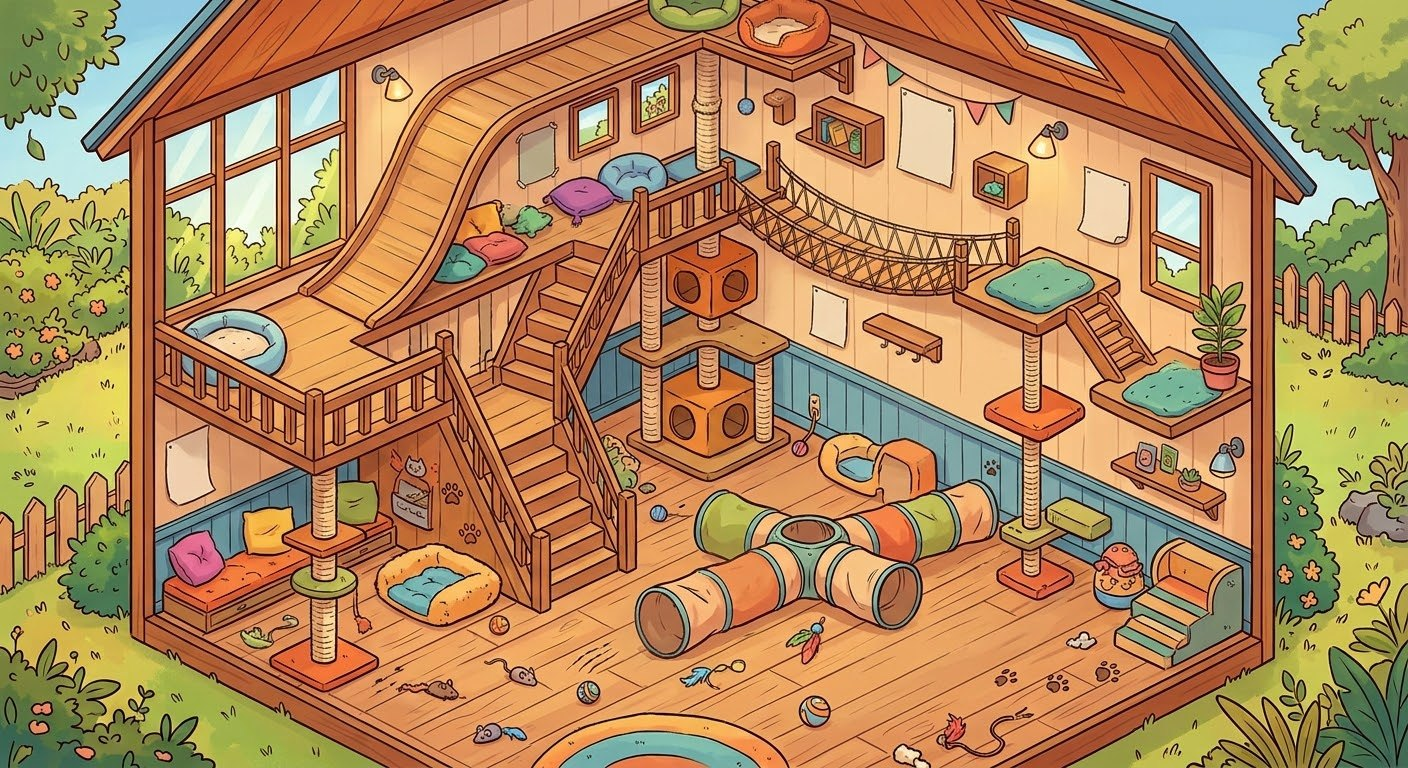
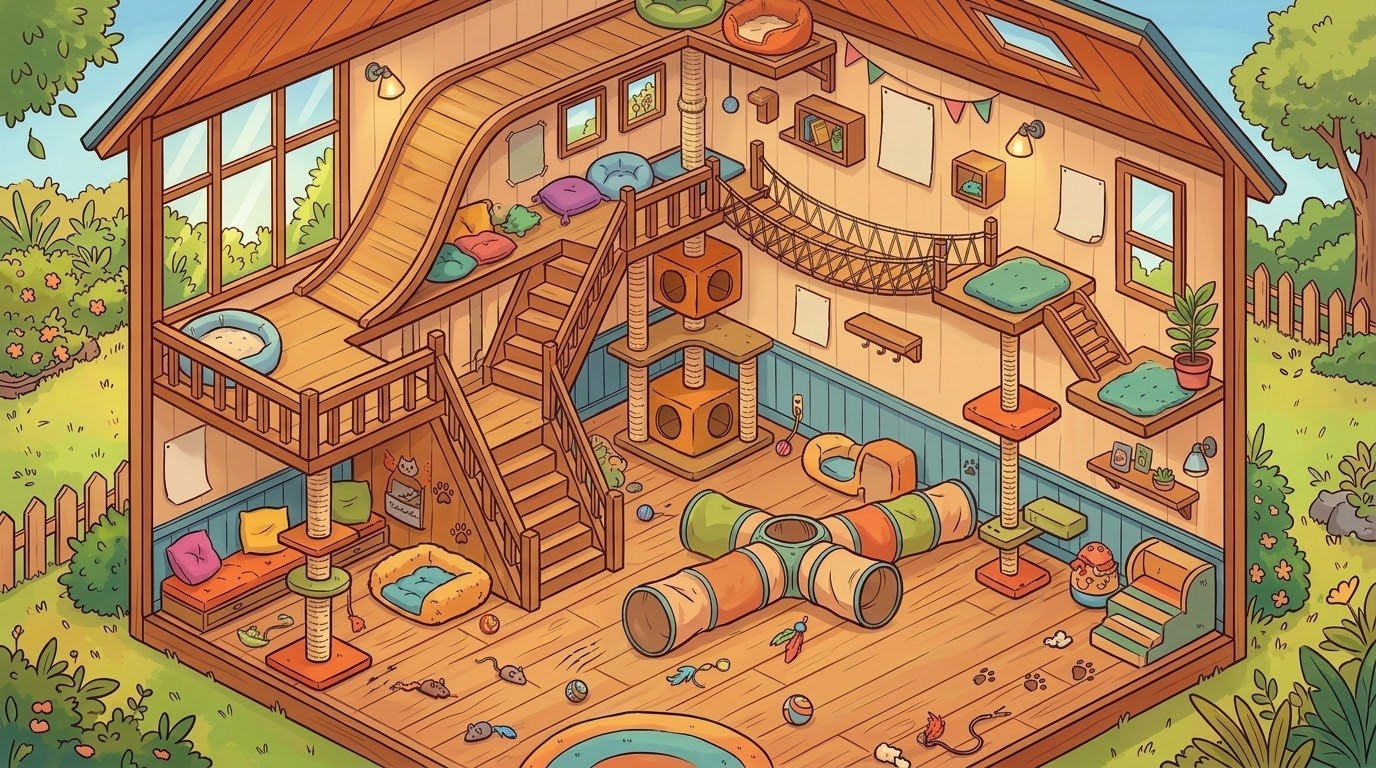
v3: 新しい猫ハウス画像に差し替え、釣り場・猫の歩行・釣り人位置を再配置

diff --git a/game/js/game.js b/game/js/game.js
@@ -94,7 +94,7 @@
 
   /* ---------- canvas & layout (fixed: the whole cat house is always visible, no camera) ---------- */
   var cv, cx, LW = 450, LH = 700, K = 1, DPR = 1;
-  var IW = 1408, IHH = 768;
+  var IW = 1376, IHH = 768;
   var VIEW = { x: 0, y: 0, s: 1, w: 450, h: 245 }, ZOOM = null; // ZOOM = fixed close-up window (null if no room)
   function resize() {
     var wrap = $('stage-wrap'); if (!wrap || !cv) return;
@@ -120,7 +120,7 @@
 
   /* ---------- game state ---------- */
   var G = null;
-  var ANG = { x: 1352, y: 742 }; // angler feet (garden, right edge of the picture)
+  var ANG = { x: 1322, y: 742 }; // angler feet (garden, right edge of the picture)
   var FALLBACK = { id: 'floor', name: 'ふつうの床', cats: ['chatora', 'kijitora', 'kuro'] };
   function unlockedSpots(n) { return SPOTS.filter(function (s) { return s.stage <= n; }); }
   function nearestSpot(x, y, onlyUnlocked) {
@@ -155,12 +155,12 @@
     var pool = B.filter(function (b) { return b.r <= 2; }), out = [];
     for (var i = 0; i < 3; i++) {
       var b = pool[Math.floor(Math.random() * pool.length)];
-      out.push({ id: b.id, x: rnd(380, 1150), y: rnd(600, 700), tx: rnd(380, 1150), wait: rnd(0, 3), f: 0 });
+      out.push({ id: b.id, x: rnd(380, 1080), y: rnd(600, 700), tx: rnd(380, 1080), wait: rnd(0, 3), f: 0 });
     }
     return out;
   }
   function makeSleepers() {
-    return [{ k: 'sleep_a', x: 240, y: 330 }, { k: 'sleep_c', x: 1168, y: 452 }, { k: 'sleep_b', x: 440, y: 584 }];
+    return [{ k: 'sleep_a', x: 236, y: 352 }, { k: 'sleep_c', x: 1140, y: 386 }, { k: 'sleep_b', x: 430, y: 590 }];
   }
 
   /* ---------- HUD / controls ---------- */
@@ -214,7 +214,7 @@
     });
   }
   function setAim(x, y) {
-    G.aim.x = clamp(x, 60, 1260); G.aim.y = clamp(y, 40, 735);
+    G.aim.x = clamp(x, 60, 1230); G.aim.y = clamp(y, 40, 735);
     var a = areaAt(G.aim.x, G.aim.y);
     if (a && a.stage <= G.stage) { G.aim.x = lerp(G.aim.x, a.x, 0.6); G.aim.y = lerp(G.aim.y, a.y, 0.6); }
     SND.play('tap'); updateHud();
@@ -260,7 +260,7 @@
       G.casts--; SV.stat('casts');
       // short (left half of gauge) = lands nearer the angler (right), long = farther left
       var miss = (1 - G.acc) * 150, dir = G.power < 0.5 ? 1 : -1;
-      var lx = clamp(G.aim.x + dir * miss + rnd(-12, 12), 60, 1260), ly = clamp(G.aim.y + rnd(-10, 10) * (1 - G.acc), 40, 735);
+      var lx = clamp(G.aim.x + dir * miss + rnd(-12, 12), 60, 1230), ly = clamp(G.aim.y + rnd(-10, 10) * (1 - G.acc), 40, 735);
       G.bob = { x: lx, y: ly, dip: 0, twitch: 0, fx: ANG.x, fy: ANG.y };
       var a = nearestSpot(lx, ly, true);
       G.area = a.d <= 170 ? a.spot : null;
@@ -367,12 +367,12 @@
       // ambient cats keep away from the bait so it is clear which cat is biting
       if (G.bob && Math.abs(a.x - G.bob.x) < 230 && Math.abs(a.y - G.bob.y) < 130) {
         var away = a.x >= G.bob.x ? 1 : -1, nx = G.bob.x + away * 320;
-        if (nx < 380 || nx > 1150) nx = G.bob.x - away * 320;
-        a.tx = clamp(nx, 380, 1150); a.wait = 0;
+        if (nx < 380 || nx > 1080) nx = G.bob.x - away * 320;
+        a.tx = clamp(nx, 380, 1080); a.wait = 0;
       }
       if (a.wait > 0) { a.wait -= dt; return; }
       var d = a.tx - a.x; a.f += dt;
-      if (Math.abs(d) < 4) { a.wait = rnd(1.5, 5); a.tx = rnd(380, 1150); return; }
+      if (Math.abs(d) < 4) { a.wait = rnd(1.5, 5); a.tx = rnd(380, 1080); return; }
       a.x += Math.sign(d) * 45 * dt;
     });
     G.texts.forEach(function (t) { t.life -= dt; t.dy -= 18 * dt; });
@@ -389,7 +389,7 @@
         SND.play('land');
         var b = pickCat(), side = Math.random() < 0.5 ? -1 : 1;
         var aid = G.area ? G.area.id : 'floor';
-        var range = aid === 'attic' ? 110 : aid === 'tower' ? 170 : 230;
+        var range = aid === 'attic' ? 70 : aid === 'loft' || aid === 'bridge' ? 110 : aid === 'tower' ? 150 : 220;
         var ap = rnd(2.2, 4.8) * (G.acc > 0.9 ? 0.6 : G.acc > 0.65 ? 0.8 : 1) * (G.area ? 1 : 1.3);
         G.cat = { b: b, side: side, x: G.bob.x + side * range, y: G.bob.y, tx: G.bob.x + side * 30, delay: rnd(0.6, 1.6) * (G.acc > 0.9 ? 0.6 : 1), speed: range / ap, f: 0, mode: 'walk', fakes: Math.floor(rnd(0, 3.99)), nt: 0 };
         if (!G.area) addText('ふつうの床…', { x: G.bob.x, y: G.bob.y - 60 }, '#e8d6bb', 15);

diff --git a/game/js/data.js b/game/js/data.js
@@ -2,7 +2,7 @@
 (function () {
   'use strict';
   // Publish datetime (epoch ms). Stamped by tools/stamp.py at publish time.
-  var BUILD_TIME = 1791133398365;
+  var BUILD_TIME = 1791531243285;
 
   var RARITY_W = { 1: 100, 2: 42, 3: 16, 4: 5, 5: 1.2 };
   // like: bait ids this cat loves (x3.2). power: pull strength. win: bite window (s). kg: [min,max]
@@ -31,15 +31,15 @@
     { id: 'yaki', name: '焼き魚', price: 150, pack: 5, boost: 1.2, desc: 'レアな猫が集まる高級エサ' },
   ];
 
-  // x, y = bait position on the cat-house image (1408x768). floor: 1 = cats walk on this level.
+  // x, y = bait position on the cat-house image (1376x768). floor: 1 = cats walk on this level.
   var SPOTS = [
-    { id: 'cushion', name: '1F ひだまりクッション', x: 470, y: 630, stage: 1, cats: ['chatora', 'kijitora', 'kuro', 'shiro', 'cream'] },
-    { id: 'tunnel', name: '1F トンネル前', x: 800, y: 655, stage: 1, cats: ['kuro', 'kijitora', 'sabatora', 'hachiware', 'sabi'] },
-    { id: 'tower', name: '1F キャットタワー下', x: 690, y: 470, stage: 2, cats: ['chatora', 'hachiware', 'mike', 'siamese', 'sabatora'] },
-    { id: 'step', name: '1F 右のステップ', x: 1120, y: 620, stage: 3, cats: ['sabatora', 'shiro', 'cream', 'mike', 'sabi'] },
-    { id: 'loft', name: '2F ロフト', x: 390, y: 318, stage: 4, cats: ['siamese', 'mike', 'oshare', 'cream', 'shiro'] },
-    { id: 'bridge', name: '2F つり橋', x: 880, y: 262, stage: 5, cats: ['hachiware', 'sabi', 'oshare', 'maneki', 'mike'] },
-    { id: 'attic', name: '屋根裏ベッド', x: 780, y: 60, stage: 6, cats: ['maneki', 'oshare', 'siamese', 'kin'] },
+    { id: 'cushion', name: '1F ひだまりクッション', x: 455, y: 650, stage: 1, cats: ['chatora', 'kijitora', 'kuro', 'shiro', 'cream'] },
+    { id: 'tunnel', name: '1F トンネル前', x: 790, y: 665, stage: 1, cats: ['kuro', 'kijitora', 'sabatora', 'hachiware', 'sabi'] },
+    { id: 'tower', name: '1F キャットタワー下', x: 735, y: 462, stage: 2, cats: ['chatora', 'hachiware', 'mike', 'siamese', 'sabatora'] },
+    { id: 'step', name: '1F 右のステップ', x: 1075, y: 636, stage: 3, cats: ['sabatora', 'shiro', 'cream', 'mike', 'sabi'] },
+    { id: 'loft', name: '2F ロフト', x: 320, y: 372, stage: 4, cats: ['siamese', 'mike', 'oshare', 'cream', 'shiro'] },
+    { id: 'bridge', name: '2F つり橋', x: 840, y: 212, stage: 5, cats: ['hachiware', 'sabi', 'oshare', 'maneki', 'mike'] },
+    { id: 'attic', name: '屋根裏ベッド', x: 768, y: 50, stage: 6, cats: ['maneki', 'oshare', 'siamese', 'kin'] },
   ];
 
   var RODS = [

diff --git a/game/index.html b/game/index.html
@@ -5,7 +5,7 @@
 <!--nk-autoupdate--><script>
 /* 自動更新: 新しい版が公開されたら、安全なとき（タイトル画面など・試合中でない）だけ自動で読み込み直す。記録(localStorage)には触れない。 */
 (function () {
-  var PAGE_LABEL = '2026-10-05 02:03:18';
+  var PAGE_LABEL = '2026-10-09 16:34:03';
   var URL = '/nekotsuri/version.json', KEY = 'nkReloadFor:nekotsuri', EVERY = 60;
   function safe() { try { return !!(!document.getElementById('scr-play').classList.contains('active') && !document.querySelector('.overlay.show')); } catch (e) { return false; } }
   var busy = false;
@@ -28,12 +28,12 @@
 })();
 </script><!--/nk-autoupdate-->
 <meta name="viewport" content="width=device-width, initial-scale=1, viewport-fit=cover, user-scalable=no" />
-<meta name="nk-v" content="20261005020318" />
+<meta name="nk-v" content="20261009163403" />
 <title>猫ハウスつり（β版）</title>
 <meta name="description" content="猫ハウスで猫を釣るブラウザゲーム（β版）。エサを選んでキャスト、ウキが沈んだら合わせて、テンションに気をつけながらリールを巻こう。" />
 <meta name="theme-color" content="#3b2414" />
 <link rel="apple-touch-icon" href="/apple-touch-icon.png" />
-<link rel="stylesheet" href="css/style.css?v=20261005020318" />
+<link rel="stylesheet" href="css/style.css?v=20261009163403" />
 </head>
 <body>
 <div id="app">
@@ -171,10 +171,10 @@
 
   <div id="medal-pop" class="medal-pop"></div>
 </div>
-<script src="js/data.js?v=20261005020318"></script>
-<script src="js/save.js?v=20261005020318"></script>
-<script src="js/meta.js?v=20261005020318"></script>
-<script src="js/sound.js?v=20261005020318"></script>
-<script src="js/game.js?v=20261005020318"></script>
+<script src="js/data.js?v=20261009163403"></script>
+<script src="js/save.js?v=20261009163403"></script>
+<script src="js/meta.js?v=20261009163403"></script>
+<script src="js/sound.js?v=20261009163403"></script>
+<script src="js/game.js?v=20261009163403"></script>
 </body>
 </html>

diff --git a/game/css/style.css b/game/css/style.css
@@ -39,7 +39,7 @@ button { font-family: inherit; }
 @keyframes betaPulse { 50% { box-shadow: 0 0 22px rgba(255,90,40,1); } }
 .beta-line { margin: 0; width: 100%; padding: 6px 10px; border-radius: 10px; border: 2px solid #ff8a00; background: rgba(255,90,40,.18); font-size: .82rem; text-align: center; }
 .beta-line b { color: #ffd24a; }
-.hero { position: relative; width: 100%; aspect-ratio: 1408 / 620; border-radius: 16px; overflow: hidden; border: 3px solid #f2a93b; flex: none; box-shadow: 0 6px 18px rgba(0,0,0,.4); }
+.hero { position: relative; width: 100%; aspect-ratio: 1376 / 620; border-radius: 16px; overflow: hidden; border: 3px solid #f2a93b; flex: none; box-shadow: 0 6px 18px rgba(0,0,0,.4); }
 .hero-bg { position: absolute; inset: 0; width: 100%; height: 100%; object-fit: cover; object-position: 50% 80%; }
 .hero-cat, .hero-bucket { position: absolute; image-rendering: pixelated; height: 26%; }
 .hero-cat.c1 { left: 28%; bottom: 10%; animation: walk1 6s linear infinite; }
@@ -154,7 +154,7 @@ img.gold { filter: drop-shadow(0 0 6px #ffd24a) brightness(1.1); }
 .medal-pop.show { transform: translate(-50%, 0); visibility: visible; }
 .medal-pop img { height: 46px; image-rendering: pixelated; } .medal-pop div { display: flex; flex-direction: column; } .medal-pop small { font-weight: 800; }
 @media (max-height: 700px) {
-  #scr-title { gap: 6px; } .logo { font-size: 1.8rem; } .hero { aspect-ratio: 1408 / 400; } .btn { min-height: 44px; padding: 6px 8px; } .save-notice { font-size: .7rem; }
+  #scr-title { gap: 6px; } .logo { font-size: 1.8rem; } .hero { aspect-ratio: 1376 / 400; } .btn { min-height: 44px; padding: 6px 8px; } .save-notice { font-size: .7rem; }
   .bait-chip { min-height: 46px; } .main-btn { min-height: 54px; }
 }
 @media (prefers-reduced-motion: reduce) { .beta-badge, .btn-transfer, .hero-cat.c1 { animation: none; } }

diff --git a/index.html b/index.html
@@ -5,7 +5,7 @@
 <!--nk-autoupdate--><script>
 /* 自動更新: 新しい版が公開されたら、安全なとき（タイトル画面など・試合中でない）だけ自動で読み込み直す。記録(localStorage)には触れない。 */
 (function () {
-  var PAGE_LABEL = '2026-10-05 02:03:18';
+  var PAGE_LABEL = '2026-10-09 16:34:03';
   var URL = '/nekotsuri/version.json', KEY = 'nkReloadFor:nekotsuri-top', EVERY = 0;
   function safe() { try { return !!(true); } catch (e) { return false; } }
   var busy = false;
@@ -58,7 +58,7 @@
 <main>
   <h1>猫ハウスつり<span class="badge">β版</span></h1>
   <p class="beta" role="note"><strong>⚠ β版（ベータ版）公開中</strong>このゲームは現在ベータ版です。仕様やバランスは予告なく変わることがあり、不具合が起きることもあります。</p>
-  <img class="hero" src="game/assets/cathouse.jpg?v=20261005020318" alt="猫ハウスのイラスト">
+  <img class="hero" src="game/assets/cathouse.jpg?v=20261009163403" alt="猫ハウスのイラスト">
   <a class="play" href="game/">🎣 ゲームを遊ぶ</a>
 
   <h2>どんなゲーム？</h2>
@@ -113,7 +113,7 @@
   </table>
 
   <footer>
-    <p>バージョン（公開日時）：<span class="build">2026-10-05 02:03:18</span></p>
+    <p>バージョン（公開日時）：<span class="build">2026-10-09 16:34:03</span></p>
     <p><a href="game/">ゲームを遊ぶ</a>・<a href="/">ゲーム一覧（トップページ）</a>・<a href="/transfer/">引き継ぎ</a></p>
   </footer>
 </main>
